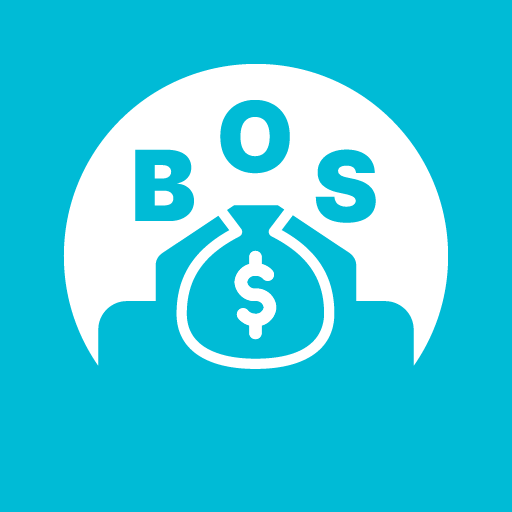
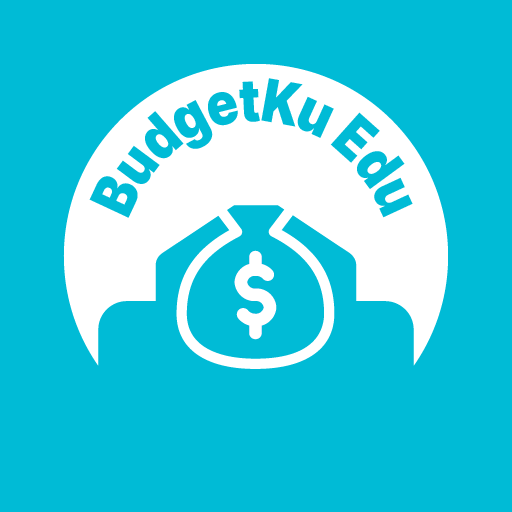
new name app

Changed region(s): [[0.1562, 0.1562, 0.8125, 0.4375]]

diff --git a/lib/screens/settings_screen.dart b/lib/screens/settings_screen.dart
@@ -158,7 +158,7 @@ class _SettingsScreenState extends State<SettingsScreen> {
                               crossAxisAlignment: CrossAxisAlignment.start,
                               children: const [
                                 Text(
-                                  'M-BOS',
+                                  'BudgetKu Edu',
                                   style: TextStyle(
                                     fontWeight: FontWeight.bold,
                                     fontSize: 18,
@@ -167,7 +167,7 @@ class _SettingsScreenState extends State<SettingsScreen> {
                                 ),
                                 SizedBox(height: 4),
                                 Text(
-                                  'Aplikasi Manajemen Keuangan Dana BOS\nVersi 1.0.0',
+                                  'Aplikasi Manajemen Keuangan\nVersi 1.0.0',
                                   style: TextStyle(
                                     fontSize: 13,
                                     color: Colors.black54,

diff --git a/android/app/src/main/kotlin/com/permadi/budgetkuedu/MainActivity.kt b/android/app/src/main/kotlin/com/permadi/budgetkuedu/MainActivity.kt
@@ -1,4 +1,4 @@
-package com.permadi.mbos
+package com.permadi.budgetkuedu
 
 import io.flutter.embedding.android.FlutterActivity
 
